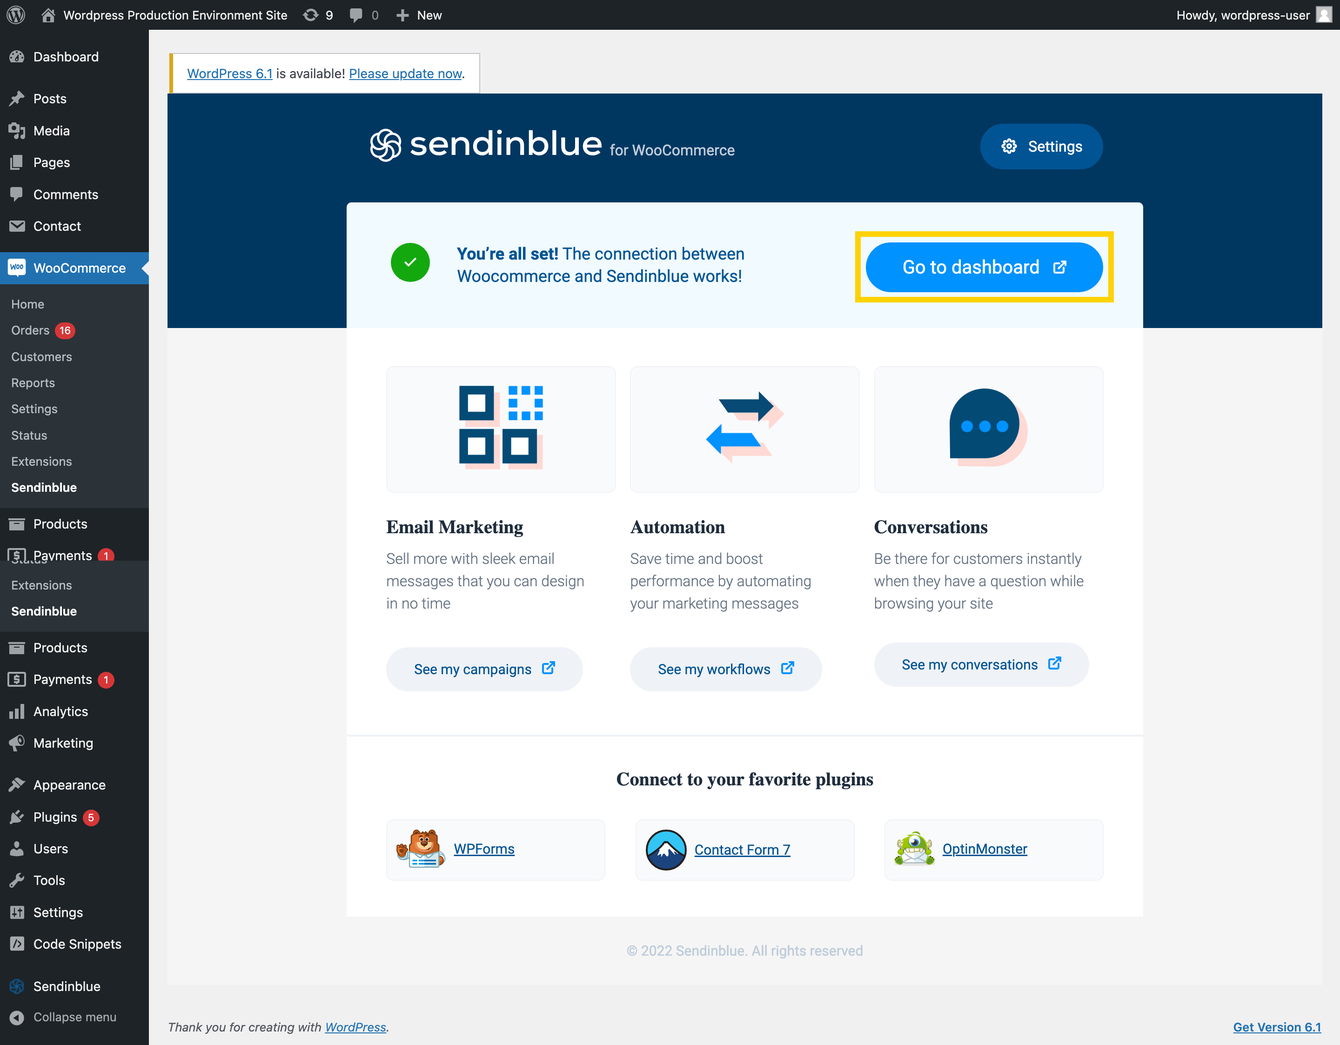
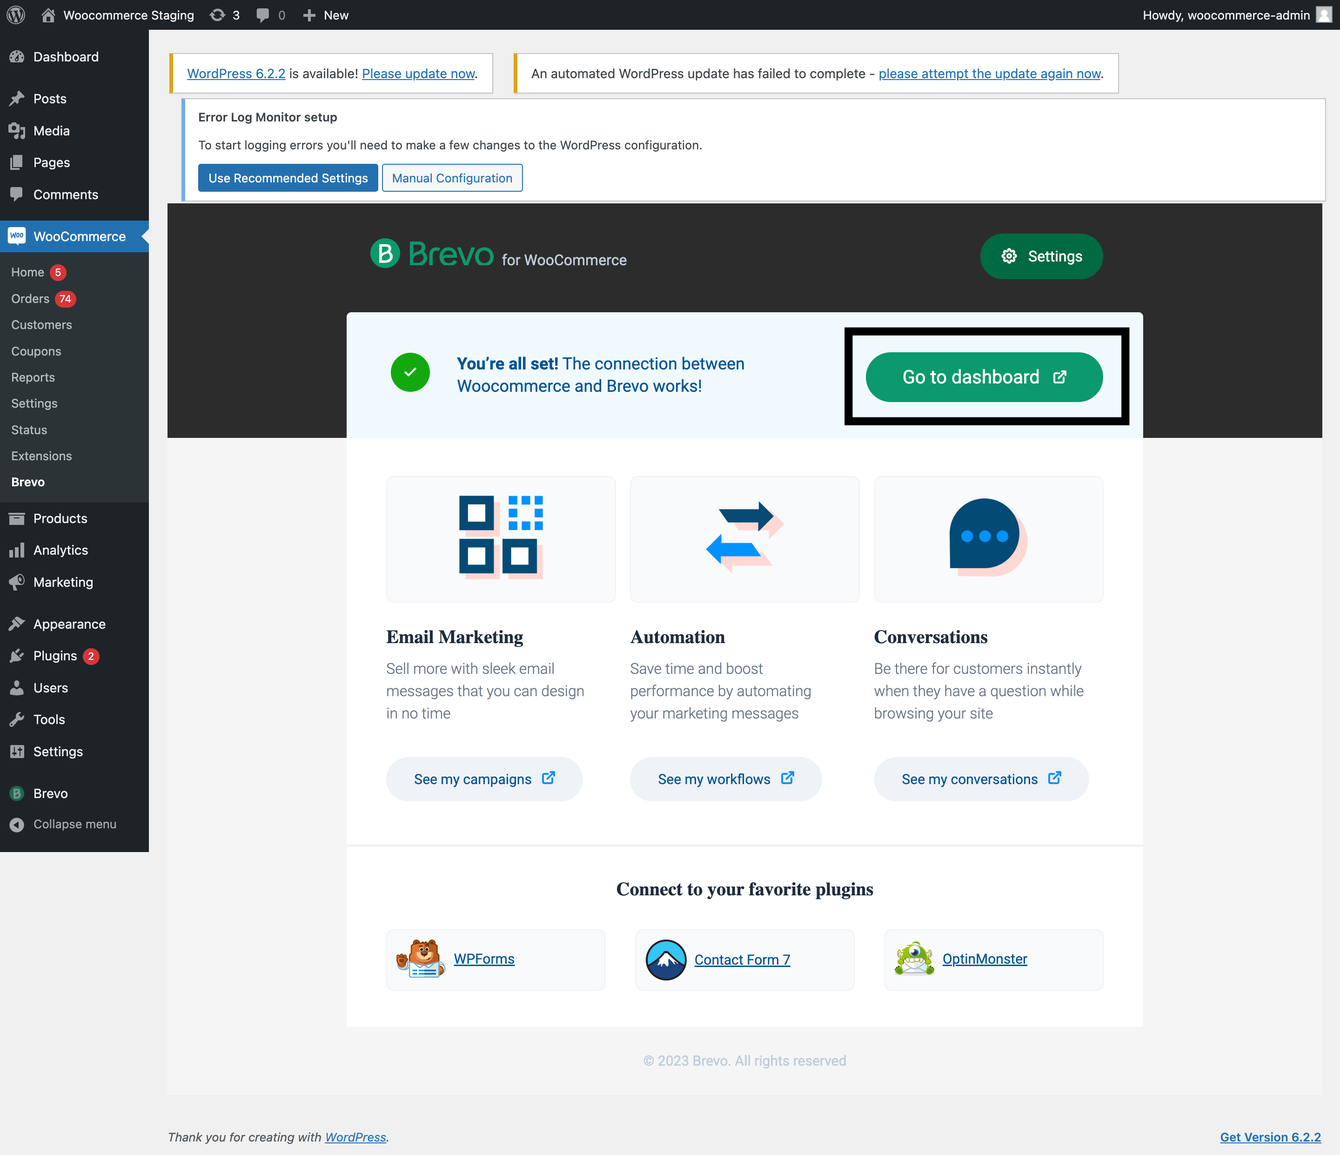
woocommerce-sendinblue-newsletter-subscription UPD

diff --git a/wp-content/plugins/woocommerce-sendinblue-newsletter-subscription/src/views/admin_menus.php b/wp-content/plugins/woocommerce-sendinblue-newsletter-subscription/src/views/admin_menus.php
@@ -20,7 +20,7 @@
         height: 30%;
         left: 0px;
         top: 0px;
-        background: #003761;
+        background: #2c2c2c;
       }
       .sib-heading {
 		position:relative;
@@ -43,7 +43,7 @@
         top: 20px;
       }
       .connect-button {
-        background: #0092ff;
+        background: #0b996e;
         border-radius: 97px;
         width: 10%;
         padding: 15px 7% 15px 7%;
@@ -60,7 +60,7 @@
         color: #fff;
       }
 	  .connect-button:hover {
-		background-color: #0071C7;
+		background-color: #006a43;
 	  }
       .rect-bottom {
         width: 100%;
@@ -532,7 +532,7 @@
 		right:24%;
 	  }
 	  .success-message .connect-button {
-        background: #0092ff;
+        background: #0b996e;
         border-radius: 97px;
         position: relative;
         top: 10%;
@@ -699,32 +699,27 @@
 		<div class="top-heading">
 		<div class="sib-heading">
           <span class="sib-logo">
-            <svg
-              width="34"
-              height="36"
-              viewBox="0 0 34 36"
-              fill="none"
-              xmlns="http://www.w3.org/2000/svg"
-            >
-              <path
-                d="M29.759 25.7913C28.8409 27.3909 27.3387 28.5435 25.6145 29.0443C25.8571 28.2038 25.994 27.3179 25.994 26.4002C25.994 21.944 22.9251 18.2063 18.806 17.1883C19.6525 16.3609 20.6966 15.7567 21.8676 15.4405C23.6773 14.9527 25.5684 15.2031 27.1909 16.1459C30.5412 18.093 31.6931 22.4198 29.759 25.7913ZM16.5609 33.4609C14.7284 33.4609 12.9856 32.7283 11.6922 31.4772C12.5361 31.269 13.365 30.9424 14.1545 30.4838C17.9875 28.2565 19.6691 23.7148 18.4877 19.6165C21.4208 20.4623 23.5762 23.18 23.5762 26.4002C23.5762 30.2929 20.4286 33.4609 16.5609 33.4609ZM3.36225 25.7913C2.44627 24.1943 2.20884 22.3123 2.63703 20.5619C3.2451 21.1963 3.94129 21.7525 4.72094 22.2059C6.20301 23.0668 7.82245 23.4763 9.42219 23.4763C11.9581 23.4763 14.4396 22.4428 16.24 20.5556C16.9756 23.5332 15.7144 26.767 12.9457 28.376C11.8436 29.0162 10.6394 29.3203 9.44966 29.3203C7.02362 29.3203 4.66029 28.0536 3.36225 25.7913ZM3.36225 10.4527C4.28032 8.85304 5.7826 7.70051 7.50675 7.19964C7.26363 8.04017 7.12677 8.92608 7.12677 9.84434C7.12677 14.2984 10.1941 18.0351 14.3111 19.0546C12.1168 21.1885 8.70059 21.7082 5.93034 20.0981C4.30727 19.1548 3.14661 17.6323 2.6614 15.8104C2.1767 13.989 2.42501 12.0863 3.36225 10.4527ZM16.5609 2.78312C18.3939 2.78312 20.1352 3.51512 21.4275 4.76521C20.5758 4.97756 19.7474 5.30678 18.9667 5.76017C16.7843 7.02851 15.2229 9.07582 14.5713 11.5259C14.1182 13.2268 14.1519 14.9783 14.6304 16.6269C11.6989 15.7807 9.54505 13.0629 9.54505 9.84434C9.54505 5.95112 12.6922 2.78312 16.5609 2.78312ZM29.759 10.4527C30.676 12.0518 30.9134 13.9358 30.4827 15.6883C29.8813 15.0581 29.1888 14.4967 28.4003 14.0381C26.2179 12.7703 23.6757 12.4332 21.2414 13.0896C19.5499 13.5461 18.0585 14.4523 16.8787 15.6951C16.5915 14.5442 16.5935 13.3337 16.9072 12.1556C17.3919 10.3343 18.5525 8.8113 20.1756 7.86799C21.7987 6.92521 23.6892 6.67477 25.4989 7.1626C27.3091 7.65095 28.8218 8.81912 29.759 10.4527ZM31.8533 9.23599C30.5931 7.03947 28.5589 5.46851 26.1246 4.81217C25.543 4.65512 24.9546 4.5586 24.3662 4.51425C22.6198 1.93008 19.6888 0.349731 16.5609 0.349731C13.321 0.349731 10.4584 2.0026 8.75917 4.51373C5.66026 4.74278 2.83298 6.50782 1.26797 9.23599C0.00777689 11.432 -0.326582 13.9906 0.325548 16.4407C0.481582 17.0266 0.692565 17.5875 0.948648 18.1223C-0.401748 20.9365 -0.296516 24.2814 1.26797 27.0085C2.88741 29.8316 5.74009 31.4986 8.74984 31.725C10.4958 34.3118 13.4329 35.8948 16.5609 35.8948C19.8003 35.8948 22.6628 34.2414 24.3621 31.7303C27.4605 31.5012 30.2883 29.7367 31.8533 27.0085C33.4732 24.1843 33.4815 20.8629 32.1705 18.1264C33.523 15.3106 33.4183 11.9642 31.8533 9.23599Z"
-                fill="white"
-              />
-            </svg>
-          </span>
-          <span class="sib-text">
-            <svg
-              width="206"
-              height="28"
-              viewBox="0 0 206 28"
-              fill="none"
-              xmlns="http://www.w3.org/2000/svg"
-            >
-              <path
-                d="M9.50283 11.5207C6.97258 11.5207 5.35186 12.3542 5.35186 13.8408C5.35186 15.3273 7.05464 15.9803 9.58489 16.2442C13.1819 16.5499 17.8458 17.1612 17.8458 22.0376C17.8458 25.5108 14.5633 27.9837 9.54386 27.9837C6.37763 27.9837 3.3345 27.2891 0.653809 24.5105L2.78742 21.7319C4.57862 23.5241 6.99547 24.5231 9.50966 24.5105C11.6843 24.5105 13.8179 23.8575 13.8179 22.107C13.8179 20.3565 12.1562 19.78 9.27032 19.516C5.63224 19.2104 1.32398 18.1267 1.32398 13.9589C1.32398 9.79099 5.79636 8.24193 9.4276 8.24193C12.137 8.18715 14.7859 9.05799 16.9499 10.7149L14.8163 13.1947C13.2743 12.0591 11.4069 11.4707 9.50283 11.5207ZM31.3245 24.3299C33.376 24.3299 35.7558 23.6352 36.9799 22.3085L39.6332 24.7814C37.6159 26.9556 34.2514 27.9837 31.2493 27.9837C24.8416 27.9837 20.7316 24.1354 20.7316 18.1128C20.7316 12.3959 24.9989 8.24193 31.1672 8.24193C36.9047 8.24193 40.8573 11.479 40.8573 17.9669C40.8573 18.4949 40.8163 19.0714 40.7753 19.641H24.9783C25.3203 22.5724 27.7137 24.3299 31.3245 24.3299ZM31.1672 11.7499C28.2061 11.7499 25.6348 13.3128 25.0125 16.3623H36.8363C36.6038 13.3476 34.5522 11.7499 31.1672 11.7499ZM59.7179 16.9667C59.7179 13.7296 57.8168 11.861 54.4591 11.861C52.9763 11.8466 51.5524 12.4497 50.5188 13.5298C49.4852 14.6099 48.9322 16.0728 48.9883 17.5779V27.5322H44.8852V8.7004H48.6054L48.8447 11.3262C50.4702 9.35831 52.874 8.22787 55.4028 8.24193C60.1077 8.24193 63.7868 11.0622 63.7868 16.9319V27.5322H59.6837L59.7179 16.9667ZM88.6584 27.5322H84.822L84.5827 24.5522C83.0533 26.7908 80.5069 28.0841 77.8263 27.9837C72.1708 27.9837 67.8626 24.3646 67.8626 18.1128C67.8626 11.7082 72.0888 8.24193 77.7442 8.24193C80.1172 8.24193 83.3176 9.34641 84.5827 11.5971V0.885651H88.6858L88.6584 27.5322ZM71.9315 18.1128C71.9315 21.9264 74.619 24.3299 78.0861 24.3299C81.455 24.3299 84.1861 21.5557 84.1861 18.1337C84.1861 14.7116 81.455 11.9374 78.0861 11.9374C74.619 11.9374 71.9315 14.2992 71.9315 18.1128ZM96.2492 0.385508C96.9067 0.330565 97.5565 0.560269 98.0383 1.018C98.5202 1.47573 98.7894 2.1189 98.7794 2.78898C98.6819 4.13529 97.5781 5.17701 96.2492 5.17701C94.9202 5.17701 93.8164 4.13529 93.7189 2.78898C93.709 2.1189 93.9781 1.47573 94.46 1.018C94.9419 0.560269 95.5917 0.330565 96.2492 0.385508ZM98.2665 27.5322H94.1634V8.7004H98.2665V27.5322ZM118.584 16.9667C118.584 13.7296 116.689 11.861 113.325 11.861C111.842 11.8446 110.416 12.4471 109.382 13.5276C108.348 14.6081 107.796 16.0722 107.854 17.5779V27.5322H103.751V8.7004H107.464L107.704 11.3262C109.332 9.35802 111.738 8.22774 114.269 8.24193C118.974 8.24193 122.653 11.0622 122.653 16.9319V27.5322H118.55L118.584 16.9667ZM131.987 11.7846C133.252 9.53397 136.46 8.24193 138.826 8.24193C144.44 8.24193 148.714 11.7152 148.714 18.1128C148.714 24.3646 144.126 27.9837 138.791 27.9837C136.336 27.9837 133.533 26.9556 131.987 24.5522L131.755 27.5322H127.918V0.885651H132.021L131.987 11.7846ZM132.227 18.1128C132.201 19.7914 132.855 21.407 134.035 22.5821C135.215 23.7573 136.818 24.3891 138.47 24.3299C142.033 24.3299 144.625 21.9264 144.625 18.1128C144.625 14.2992 142.019 11.9374 138.47 11.9374C136.826 11.8806 135.231 12.5075 134.052 13.673C132.874 14.8386 132.214 16.4421 132.227 18.1128ZM157.29 27.5322H153.187V0.885651H157.29V27.5322ZM166.74 18.9533C166.74 22.1557 168.6 24.3646 172.04 24.3646C173.513 24.3813 174.927 23.7819 175.952 22.7072C176.976 21.6324 177.52 20.177 177.456 18.6824V8.7004H181.525V27.5322H177.853L177.614 24.9342C175.954 26.9466 173.475 28.0712 170.891 27.9837C166.104 27.9837 162.685 24.6703 162.685 18.9881V8.7004H166.754L166.74 18.9533ZM196.474 24.3299C198.526 24.3299 200.899 23.6352 202.13 22.3085L204.776 24.7814C202.759 26.9556 199.401 27.9837 196.392 27.9837C189.991 27.9837 185.875 24.1354 185.875 18.1128C185.875 12.3959 190.149 8.24193 196.317 8.24193C202.048 8.24193 206 11.479 206 17.9669C206 18.4949 205.959 19.0714 205.925 19.641H190.108C190.47 22.5724 192.877 24.3299 196.474 24.3299ZM196.317 11.7499C193.349 11.7499 190.778 13.3128 190.162 16.3623H201.979C201.733 13.3476 199.675 11.7499 196.317 11.7499Z"
-                fill="white"
-              />
-            </svg>
+				  <svg
+					width="34"
+					height="36"
+					viewBox="0 0 34 36"
+					fill="none"
+					xmlns="http://www.w3.org/2000/svg"
+				  >
+				  	<circle cx="16" cy="16" r="16" fill="#0B996E"/>
+					<path fill="#fff" d="M21.002 14.54c.99-.97 1.453-2.089 1.453-3.45 0-2.814-2.07-4.69-5.19-4.69H9.6v20h6.18c4.698 0 8.22-2.874 8.22-6.686 0-2.089-1.081-3.964-2.998-5.174Zm-8.62-5.538h4.573c1.545 0 2.565.877 2.565 2.208 0 1.513-1.329 2.663-4.048 3.54-1.854.574-2.688 1.059-2.997 1.634l-.094.001V9.002Zm3.151 14.796h-3.152v-3.085c0-1.362 1.175-2.693 2.813-3.208 1.453-.484 2.657-.969 3.677-1.482 1.36.787 2.194 2.148 2.194 3.57 0 2.42-2.35 4.205-5.532 4.205Z"/>
+				  </svg>
+				</span>
+				<span class="sib-text">
+				  <svg
+					width="90"
+					height="28"
+					viewBox="0 0 90 28"
+					fill="none"
+					xmlns="http://www.w3.org/2000/svg"
+				  >
+					<path fill="#0B996E" d="M73.825 19.012c0-4.037 2.55-6.877 6.175-6.877 3.626 0 6.216 2.838 6.216 6.877s-2.59 6.715-6.216 6.715c-3.626 0-6.175-2.799-6.175-6.715Zm-3.785 0c0 5.957 4.144 10.155 9.96 10.155 5.816 0 10-4.198 10-10.155 0-5.957-4.143-10.314-10-10.314s-9.96 4.278-9.96 10.314ZM50.717 8.937l7.81 19.989h3.665l7.81-19.989h-3.945L60.399 24.37h-.08L54.662 8.937h-3.945Zm-15.18 9.354c.239-3.678 2.67-6.156 5.977-6.156 2.867 0 5.02 1.84 5.338 4.598h-6.614c-2.35 0-3.626.28-4.58 1.56h-.12v-.002Zm-3.784.6c0 5.957 4.183 10.274 9.96 10.274 3.904 0 7.33-1.998 8.804-5.158l-3.187-1.6c-1.115 2.08-3.267 3.319-5.618 3.319-2.83 0-5.379-2.16-5.379-4.238 0-1.08.718-1.56 1.753-1.56h12.63v-1.079c0-5.997-3.825-10.155-9.323-10.155-5.497 0-9.641 4.279-9.641 10.195M20.916 28.924h3.586V16.653c0-2.639 1.632-4.518 3.905-4.518.956 0 1.951.32 2.43.758.36-.96.917-1.918 1.753-2.878-.957-.799-2.59-1.32-4.184-1.32-4.382 0-7.49 3.279-7.49 7.956v12.274-.001Zm-17.33-13.23V5.937h5.896c1.992 0 3.307 1.16 3.307 2.919 0 1.998-1.713 3.518-5.218 4.677-2.39.759-3.466 1.399-3.865 2.16h-.12Zm0 9.794v-4.077c0-1.799 1.514-3.558 3.626-4.238 1.873-.64 3.425-1.28 4.74-1.958 1.754 1.04 2.829 2.837 2.829 4.717 0 3.198-3.028 5.556-7.132 5.556H3.586ZM0 28.926h7.968c6.057 0 10.597-3.798 10.597-8.835 0-2.759-1.393-5.237-3.864-6.836 1.275-1.28 1.873-2.76 1.873-4.559 0-3.717-2.67-6.196-6.693-6.196H0v26.426Z"/>
+				</svg>
           </span>
           <span class="for-woocommerce"> <?php echo __('for WooCommerce', SENDINBLUE_WC_TEXTDOMAIN) ?> </span>
         </div>
@@ -733,8 +728,8 @@
 				href=<?php echo $settingsUrl ?>
 				target="_blank"
 				class="connect-button"
-				style="background-color: #005494; padding: 15px 22px; font-size: 16px;"
-				onmouseover="this.style['background-color']='#0071C7';" onmouseout="this.style['background-color']='#005494';"
+				style="background-color: #006a43; padding: 15px 22px; font-size: 16px;"
+				onmouseover="this.style['background-color']='#0b996e';" onmouseout="this.style['background-color']='#006a43';"
 			  >
 			  <span class="settings-svg">
 				<svg width="18" height="18" viewBox="0 0 18 18" fill="none" xmlns="http://www.w3.org/2000/svg">
@@ -757,7 +752,7 @@
 			</div>
 			<div class="success-text">
 				<span class="bold"><?php echo __('You’re all set!', SENDINBLUE_WC_TEXTDOMAIN) ?></span> 
-				<?php echo __('The connection between Woocommerce and Sendinblue works!', SENDINBLUE_WC_TEXTDOMAIN) ?>
+				<?php echo __('The connection between Woocommerce and Brevo works!', SENDINBLUE_WC_TEXTDOMAIN) ?>
 			</div>
 		</div>
 		<div class="go-to-dash">
@@ -1198,7 +1193,7 @@
             </div>
           </div>
         </div>
-		<div class="copyright">© 2022 Sendinblue. All rights reserved</div>
+		<div class="copyright">© 2023 Brevo. All rights reserved</div>
       </div>
     </div>
     <div id="myModal" class="modal">

diff --git a/wp-content/plugins/woocommerce-sendinblue-newsletter-subscription/src/views/admin_view.php b/wp-content/plugins/woocommerce-sendinblue-newsletter-subscription/src/views/admin_view.php
@@ -21,7 +21,7 @@
         height: 40%;
         left: 0px;
         top: 0px;
-        background: #003761;
+        background: #2c2c2c;
       }
 	  .top-heading{
 		position: relative;
@@ -67,7 +67,7 @@
 		margin-bottom:5%;
       }
       .connect-button {
-        background: #0092ff;
+        background: #0b996e;
         border-radius: 97px;
 		width: 10%;
         padding: 15px 40px 15px 40px;
@@ -84,7 +84,7 @@
         color: #fff;
       }
 	  .connect-button:hover{
-		background-color: #0071C7;
+		background-color: #006a43;
 	  }
       .rect-bottom {
         width: 100%;
@@ -532,7 +532,7 @@
 		margin-top:20%;
 	  }
 	  .connect-button {
-        background: #0092ff;
+        background: #0b996e;
         border-radius: 97px;
         position: relative;
         top: 10%;
@@ -621,7 +621,7 @@
 			right: 10%;
 		 }
 		.connect-button {
-        background: #0092ff;
+        background: #0b996e;
         border-radius: 97px;
         position: relative;
         top: 10%;
@@ -703,25 +703,20 @@
 					fill="none"
 					xmlns="http://www.w3.org/2000/svg"
 				  >
-					<path
-					  d="M29.759 25.7913C28.8409 27.3909 27.3387 28.5435 25.6145 29.0443C25.8571 28.2038 25.994 27.3179 25.994 26.4002C25.994 21.944 22.9251 18.2063 18.806 17.1883C19.6525 16.3609 20.6966 15.7567 21.8676 15.4405C23.6773 14.9527 25.5684 15.2031 27.1909 16.1459C30.5412 18.093 31.6931 22.4198 29.759 25.7913ZM16.5609 33.4609C14.7284 33.4609 12.9856 32.7283 11.6922 31.4772C12.5361 31.269 13.365 30.9424 14.1545 30.4838C17.9875 28.2565 19.6691 23.7148 18.4877 19.6165C21.4208 20.4623 23.5762 23.18 23.5762 26.4002C23.5762 30.2929 20.4286 33.4609 16.5609 33.4609ZM3.36225 25.7913C2.44627 24.1943 2.20884 22.3123 2.63703 20.5619C3.2451 21.1963 3.94129 21.7525 4.72094 22.2059C6.20301 23.0668 7.82245 23.4763 9.42219 23.4763C11.9581 23.4763 14.4396 22.4428 16.24 20.5556C16.9756 23.5332 15.7144 26.767 12.9457 28.376C11.8436 29.0162 10.6394 29.3203 9.44966 29.3203C7.02362 29.3203 4.66029 28.0536 3.36225 25.7913ZM3.36225 10.4527C4.28032 8.85304 5.7826 7.70051 7.50675 7.19964C7.26363 8.04017 7.12677 8.92608 7.12677 9.84434C7.12677 14.2984 10.1941 18.0351 14.3111 19.0546C12.1168 21.1885 8.70059 21.7082 5.93034 20.0981C4.30727 19.1548 3.14661 17.6323 2.6614 15.8104C2.1767 13.989 2.42501 12.0863 3.36225 10.4527ZM16.5609 2.78312C18.3939 2.78312 20.1352 3.51512 21.4275 4.76521C20.5758 4.97756 19.7474 5.30678 18.9667 5.76017C16.7843 7.02851 15.2229 9.07582 14.5713 11.5259C14.1182 13.2268 14.1519 14.9783 14.6304 16.6269C11.6989 15.7807 9.54505 13.0629 9.54505 9.84434C9.54505 5.95112 12.6922 2.78312 16.5609 2.78312ZM29.759 10.4527C30.676 12.0518 30.9134 13.9358 30.4827 15.6883C29.8813 15.0581 29.1888 14.4967 28.4003 14.0381C26.2179 12.7703 23.6757 12.4332 21.2414 13.0896C19.5499 13.5461 18.0585 14.4523 16.8787 15.6951C16.5915 14.5442 16.5935 13.3337 16.9072 12.1556C17.3919 10.3343 18.5525 8.8113 20.1756 7.86799C21.7987 6.92521 23.6892 6.67477 25.4989 7.1626C27.3091 7.65095 28.8218 8.81912 29.759 10.4527ZM31.8533 9.23599C30.5931 7.03947 28.5589 5.46851 26.1246 4.81217C25.543 4.65512 24.9546 4.5586 24.3662 4.51425C22.6198 1.93008 19.6888 0.349731 16.5609 0.349731C13.321 0.349731 10.4584 2.0026 8.75917 4.51373C5.66026 4.74278 2.83298 6.50782 1.26797 9.23599C0.00777689 11.432 -0.326582 13.9906 0.325548 16.4407C0.481582 17.0266 0.692565 17.5875 0.948648 18.1223C-0.401748 20.9365 -0.296516 24.2814 1.26797 27.0085C2.88741 29.8316 5.74009 31.4986 8.74984 31.725C10.4958 34.3118 13.4329 35.8948 16.5609 35.8948C19.8003 35.8948 22.6628 34.2414 24.3621 31.7303C27.4605 31.5012 30.2883 29.7367 31.8533 27.0085C33.4732 24.1843 33.4815 20.8629 32.1705 18.1264C33.523 15.3106 33.4183 11.9642 31.8533 9.23599Z"
-					  fill="white"
-					/>
+				  	<circle cx="16" cy="16" r="16" fill="#0B996E"/>
+					<path fill="#fff" d="M21.002 14.54c.99-.97 1.453-2.089 1.453-3.45 0-2.814-2.07-4.69-5.19-4.69H9.6v20h6.18c4.698 0 8.22-2.874 8.22-6.686 0-2.089-1.081-3.964-2.998-5.174Zm-8.62-5.538h4.573c1.545 0 2.565.877 2.565 2.208 0 1.513-1.329 2.663-4.048 3.54-1.854.574-2.688 1.059-2.997 1.634l-.094.001V9.002Zm3.151 14.796h-3.152v-3.085c0-1.362 1.175-2.693 2.813-3.208 1.453-.484 2.657-.969 3.677-1.482 1.36.787 2.194 2.148 2.194 3.57 0 2.42-2.35 4.205-5.532 4.205Z"/>
 				  </svg>
 				</span>
 				<span class="sib-text">
 				  <svg
-					width="206"
+					width="90"
 					height="28"
-					viewBox="0 0 206 28"
+					viewBox="0 0 90 28"
 					fill="none"
 					xmlns="http://www.w3.org/2000/svg"
 				  >
-					<path
-					  d="M9.50283 11.5207C6.97258 11.5207 5.35186 12.3542 5.35186 13.8408C5.35186 15.3273 7.05464 15.9803 9.58489 16.2442C13.1819 16.5499 17.8458 17.1612 17.8458 22.0376C17.8458 25.5108 14.5633 27.9837 9.54386 27.9837C6.37763 27.9837 3.3345 27.2891 0.653809 24.5105L2.78742 21.7319C4.57862 23.5241 6.99547 24.5231 9.50966 24.5105C11.6843 24.5105 13.8179 23.8575 13.8179 22.107C13.8179 20.3565 12.1562 19.78 9.27032 19.516C5.63224 19.2104 1.32398 18.1267 1.32398 13.9589C1.32398 9.79099 5.79636 8.24193 9.4276 8.24193C12.137 8.18715 14.7859 9.05799 16.9499 10.7149L14.8163 13.1947C13.2743 12.0591 11.4069 11.4707 9.50283 11.5207ZM31.3245 24.3299C33.376 24.3299 35.7558 23.6352 36.9799 22.3085L39.6332 24.7814C37.6159 26.9556 34.2514 27.9837 31.2493 27.9837C24.8416 27.9837 20.7316 24.1354 20.7316 18.1128C20.7316 12.3959 24.9989 8.24193 31.1672 8.24193C36.9047 8.24193 40.8573 11.479 40.8573 17.9669C40.8573 18.4949 40.8163 19.0714 40.7753 19.641H24.9783C25.3203 22.5724 27.7137 24.3299 31.3245 24.3299ZM31.1672 11.7499C28.2061 11.7499 25.6348 13.3128 25.0125 16.3623H36.8363C36.6038 13.3476 34.5522 11.7499 31.1672 11.7499ZM59.7179 16.9667C59.7179 13.7296 57.8168 11.861 54.4591 11.861C52.9763 11.8466 51.5524 12.4497 50.5188 13.5298C49.4852 14.6099 48.9322 16.0728 48.9883 17.5779V27.5322H44.8852V8.7004H48.6054L48.8447 11.3262C50.4702 9.35831 52.874 8.22787 55.4028 8.24193C60.1077 8.24193 63.7868 11.0622 63.7868 16.9319V27.5322H59.6837L59.7179 16.9667ZM88.6584 27.5322H84.822L84.5827 24.5522C83.0533 26.7908 80.5069 28.0841 77.8263 27.9837C72.1708 27.9837 67.8626 24.3646 67.8626 18.1128C67.8626 11.7082 72.0888 8.24193 77.7442 8.24193C80.1172 8.24193 83.3176 9.34641 84.5827 11.5971V0.885651H88.6858L88.6584 27.5322ZM71.9315 18.1128C71.9315 21.9264 74.619 24.3299 78.0861 24.3299C81.455 24.3299 84.1861 21.5557 84.1861 18.1337C84.1861 14.7116 81.455 11.9374 78.0861 11.9374C74.619 11.9374 71.9315 14.2992 71.9315 18.1128ZM96.2492 0.385508C96.9067 0.330565 97.5565 0.560269 98.0383 1.018C98.5202 1.47573 98.7894 2.1189 98.7794 2.78898C98.6819 4.13529 97.5781 5.17701 96.2492 5.17701C94.9202 5.17701 93.8164 4.13529 93.7189 2.78898C93.709 2.1189 93.9781 1.47573 94.46 1.018C94.9419 0.560269 95.5917 0.330565 96.2492 0.385508ZM98.2665 27.5322H94.1634V8.7004H98.2665V27.5322ZM118.584 16.9667C118.584 13.7296 116.689 11.861 113.325 11.861C111.842 11.8446 110.416 12.4471 109.382 13.5276C108.348 14.6081 107.796 16.0722 107.854 17.5779V27.5322H103.751V8.7004H107.464L107.704 11.3262C109.332 9.35802 111.738 8.22774 114.269 8.24193C118.974 8.24193 122.653 11.0622 122.653 16.9319V27.5322H118.55L118.584 16.9667ZM131.987 11.7846C133.252 9.53397 136.46 8.24193 138.826 8.24193C144.44 8.24193 148.714 11.7152 148.714 18.1128C148.714 24.3646 144.126 27.9837 138.791 27.9837C136.336 27.9837 133.533 26.9556 131.987 24.5522L131.755 27.5322H127.918V0.885651H132.021L131.987 11.7846ZM132.227 18.1128C132.201 19.7914 132.855 21.407 134.035 22.5821C135.215 23.7573 136.818 24.3891 138.47 24.3299C142.033 24.3299 144.625 21.9264 144.625 18.1128C144.625 14.2992 142.019 11.9374 138.47 11.9374C136.826 11.8806 135.231 12.5075 134.052 13.673C132.874 14.8386 132.214 16.4421 132.227 18.1128ZM157.29 27.5322H153.187V0.885651H157.29V27.5322ZM166.74 18.9533C166.74 22.1557 168.6 24.3646 172.04 24.3646C173.513 24.3813 174.927 23.7819 175.952 22.7072C176.976 21.6324 177.52 20.177 177.456 18.6824V8.7004H181.525V27.5322H177.853L177.614 24.9342C175.954 26.9466 173.475 28.0712 170.891 27.9837C166.104 27.9837 162.685 24.6703 162.685 18.9881V8.7004H166.754L166.74 18.9533ZM196.474 24.3299C198.526 24.3299 200.899 23.6352 202.13 22.3085L204.776 24.7814C202.759 26.9556 199.401 27.9837 196.392 27.9837C189.991 27.9837 185.875 24.1354 185.875 18.1128C185.875 12.3959 190.149 8.24193 196.317 8.24193C202.048 8.24193 206 11.479 206 17.9669C206 18.4949 205.959 19.0714 205.925 19.641H190.108C190.47 22.5724 192.877 24.3299 196.474 24.3299ZM196.317 11.7499C193.349 11.7499 190.778 13.3128 190.162 16.3623H201.979C201.733 13.3476 199.675 11.7499 196.317 11.7499Z"
-					  fill="white"
-					/>
-				  </svg>
+					<path fill="#0B996E" d="M73.825 19.012c0-4.037 2.55-6.877 6.175-6.877 3.626 0 6.216 2.838 6.216 6.877s-2.59 6.715-6.216 6.715c-3.626 0-6.175-2.799-6.175-6.715Zm-3.785 0c0 5.957 4.144 10.155 9.96 10.155 5.816 0 10-4.198 10-10.155 0-5.957-4.143-10.314-10-10.314s-9.96 4.278-9.96 10.314ZM50.717 8.937l7.81 19.989h3.665l7.81-19.989h-3.945L60.399 24.37h-.08L54.662 8.937h-3.945Zm-15.18 9.354c.239-3.678 2.67-6.156 5.977-6.156 2.867 0 5.02 1.84 5.338 4.598h-6.614c-2.35 0-3.626.28-4.58 1.56h-.12v-.002Zm-3.784.6c0 5.957 4.183 10.274 9.96 10.274 3.904 0 7.33-1.998 8.804-5.158l-3.187-1.6c-1.115 2.08-3.267 3.319-5.618 3.319-2.83 0-5.379-2.16-5.379-4.238 0-1.08.718-1.56 1.753-1.56h12.63v-1.079c0-5.997-3.825-10.155-9.323-10.155-5.497 0-9.641 4.279-9.641 10.195M20.916 28.924h3.586V16.653c0-2.639 1.632-4.518 3.905-4.518.956 0 1.951.32 2.43.758.36-.96.917-1.918 1.753-2.878-.957-.799-2.59-1.32-4.184-1.32-4.382 0-7.49 3.279-7.49 7.956v12.274-.001Zm-17.33-13.23V5.937h5.896c1.992 0 3.307 1.16 3.307 2.919 0 1.998-1.713 3.518-5.218 4.677-2.39.759-3.466 1.399-3.865 2.16h-.12Zm0 9.794v-4.077c0-1.799 1.514-3.558 3.626-4.238 1.873-.64 3.425-1.28 4.74-1.958 1.754 1.04 2.829 2.837 2.829 4.717 0 3.198-3.028 5.556-7.132 5.556H3.586ZM0 28.926h7.968c6.057 0 10.597-3.798 10.597-8.835 0-2.759-1.393-5.237-3.864-6.836 1.275-1.28 1.873-2.76 1.873-4.559 0-3.717-2.67-6.196-6.693-6.196H0v26.426Z"/>
+				</svg>
 				</span>
 				<span class="for-woocommerce"> <?php echo __('for WooCommerce', SENDINBLUE_WC_TEXTDOMAIN) ?> </span>
 			  </div>
@@ -809,7 +804,7 @@
 
       <div class="rect-bottom">
         <div class="bottom-overlay">
-          <div class="do-it-all-with-sendinblue"><?php echo __('Do it all with Sendinblue', SENDINBLUE_WC_TEXTDOMAIN) ?></div>
+          <div class="do-it-all-with-sendinblue"><?php echo __('Do it all with Brevo', SENDINBLUE_WC_TEXTDOMAIN) ?></div>
           <div class="features">
             <div class="email_marketing">
               <div class="email_marketing_img_overlay">
@@ -1180,7 +1175,7 @@
           </div>
         </div>
       </div>
-      <div class="copyright">© 2022 Sendinblue. All rights reserved</div>
+      <div class="copyright">© 2023 Brevo. All rights reserved</div>
     </div>
     <div id="myModal" class="modal">
       <!-- Modal content -->

diff --git a/wp-content/plugins/woocommerce-sendinblue-newsletter-subscription/woocommerce-sendinblue.php b/wp-content/plugins/woocommerce-sendinblue-newsletter-subscription/woocommerce-sendinblue.php
@@ -1,13 +1,13 @@
 <?php
 /**
- * Plugin Name: Sendinblue - WooCommerce Email Marketing
- * Plugin URI: https://www.sendinblue.com/?r=wporg
+ * Plugin Name: Brevo - WooCommerce Email Marketing
+ * Plugin URI: https://www.brevo.com/?r=wporg
  * Description: Allow users to subscribe to your newsletter via the checkout page and a client to send SMS campaign.
- * Author: Sendinblue
+ * Author: Brevo
  * Text Domain: woocommerce-sendinblue-newsletter-subscription
  * Domain Path: /languages
- * Version: 3.0.9
- * Author URI: https://www.sendinblue.com/?r=wporg
+ * Version: 3.0.10
+ * Author URI: https://www.brevo.com/?r=wporg
  * Requires at least: 4.3
  * Tested up to: 6.0
  * Requires PHP: 5.6
@@ -45,7 +45,7 @@ define('SENDINBLUE_WC_USER_CONNECTION_ID', 'sendinblue_woocommerce_user_connecti
 define('SENDINBLUE_WC_SETTINGS', 'sendinblue_woocommerce_user_connection_settings');
 define('SENDINBLUE_WC_EMAIL_SETTINGS', 'sendinblue_woocommerce_email_options_settings');
 define('API_KEY_V3_OPTION_NAME', 'sib_wc_api_key_v3');
-define('SENDINBLUE_WC_PLUGIN_VERSION', '3.0.9');
+define('SENDINBLUE_WC_PLUGIN_VERSION', '3.0.10');
 define('SENDINBLUE_WORDPRESS_SHOP_VERSION', $GLOBALS['wp_version']);
 define('SENDINBLUE_WOOCOMMERCE_UPDATE', 'sendinblue_plugin_update_call_apiv3');
 define('SENDINBLUE_REDIRECT', 'sendinblue_woocommerce_redirect');

diff --git a/wp-content/plugins/woocommerce-sendinblue-newsletter-subscription/src/managers/admin-manager.php b/wp-content/plugins/woocommerce-sendinblue-newsletter-subscription/src/managers/admin-manager.php
@@ -39,8 +39,8 @@ class AdminManager
     {
         add_submenu_page(
             'woocommerce',
-            'Sendinblue', 
-            'Sendinblue', 
+            'Brevo',
+            'Brevo',
             'manage_options', 
             'sendinblue', 
             array( &$this, 'adminOptions' )
